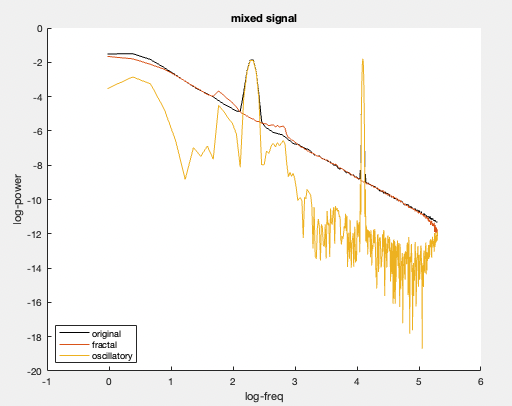
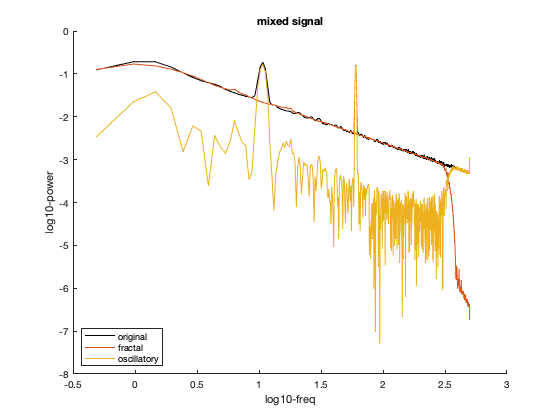
updated example code + figures (#871)

diff --git a/example/spectral/fooof.md b/example/spectral/fooof.md
@@ -11,81 +11,77 @@ FOOOF allows distinguishing rhythmic activity from concurrent power-spectral 1/f
 The following code shows how to extract spectral features from simulated data.
 
 ```matlab
-    % simulate data
-    F = 1; % weight of (F)ractal components of the simulated data
-    O = 1; % weight of (O)scillatory components of the simulated data
-    t = (1:60000)/1000; % time axis
-    for rpt = 1:1
-        % use a simple method to make pink noise that does not rely on the digital signal processing toolbox
-        fn = cumsum(randn(1,length(t)));
-        fn = fn./max(abs(fn));        
-    
-        sgn10 = ft_preproc_bandpassfilter(randn(1,length(t)),1000,[8 12],[],'firws');
-        sgn10 = 0.15.*sgn10./max(abs(sgn10));
-    
-        sgn60 = ft_preproc_bandpassfilter(randn(1,length(t)),1000,[40 80],[],'firws');
-        sgn60 = 0.05.*sgn60./max(abs(sgn60));
-    
-        % add a 10 Hz and 60 Hz oscillation
-        data.trial{1,rpt} = F * fn + O * sgn10 + O * sgn60;
-        data.time{1,rpt}  = t;
-        data.label{1}     = 'chan';
-        data.trialinfo(rpt,1) = rpt;
-    end
+rng(42)
 
-    % chunk into 2-second segments
-    cfg               = [];
-    cfg.length        = 2;
-    cfg.overlap       = 0.5;
-    data              = ft_redefinetrial(cfg, data);
+% set simulation parameters
+A = 1; % scale of 1/f amplitude
+C = 1; % 1/f slope
+O = 1; % weight of oscillatory components of the simulated data
 
-    % compute the fractal and original spectra
-    cfg               = [];
-    cfg.foilim        = [1 200];
-    cfg.pad           = 4;
-    cfg.tapsmofrq     = 2;
-    cfg.method        = 'mtmfft';
-    cfg.output        = 'fooof_aperiodic';
-    fractal = ft_freqanalysis(cfg, data);
-    cfg.output        = 'pow';
-    original = ft_freqanalysis(cfg, data);
+lf = 0; % lower bound of freq
+hf = 500; % higher bound of freq
+sl = 500; % spectral lines
 
-    % subtract the fractal component from the power spectrum
-    cfg               = [];
-    cfg.parameter     = 'powspctrm';
-    cfg.operation     = 'x2-x1';
-    oscillatory = ft_math(cfg, fractal, original);
-    
-    % original implementation by Donoghue et al. 2020 operates through the semilog-power 
-    % (linear frequency, log10-power) space and transformed back into linear-linear space.
-    % thus defining an alternative expression for the oscillatory component as the quotient of 
-    % the power spectrum and the fractal component
-    cfg               = [];
-    cfg.parameter     = 'powspctrm';
-    cfg.operation     = 'x2./x1';  % equivalent to 10^(log10(x2)-log10(x1))
-    oscillatory_alt = ft_math(cfg, fractal, original);
+fs = 1000; % sampling rate
+n = 60000; % time pnts
+t = ((1:n)-1)/fs; % time axis
 
-    % display the spectra on a log-log scale
-    figure();
-    subplot(1,2,1); hold on;
-    plot(log(original.freq), log(original.powspctrm),'k');
-    plot(log(fractal.freq), log(fractal.powspctrm));
-    plot(log(fractal.freq), log(oscillatory.powspctrm));
-    xlabel('log-freq'); ylabel('log-power'); grid on;
-    legend({'original','fractal','oscillatory = spectrum-fractal'},'location','southwest');
-    if F~=0 && O==0
-      title('pure fractal signal');
-    elseif F==0 && O~=0
-      title('pure oscillatory signal');
-    elseif F~=0 && O~=0
-      title('mixed signal');
-    end
-    subplot(1,2,2); hold on;
-    plot(log(original.freq), log(original.powspctrm),'k');
-    plot(log(fractal.freq), log(fractal.powspctrm));
-    plot(log(oscillatory_alt.freq), log(oscillatory_alt.powspctrm));
-    xlabel('log-freq'); ylabel('log-power'); grid on;
-    legend({'original','fractal','oscillatory = spectrum/fractal'},'location','southwest');
-    title('oscillatory = spectrum / fractal');
+% simulate data
+freq = linspace(lf, hf, sl+1); % sampled frequencies for simulated noise
+fn = zeros(size(t));
+for i=2:length(freq) % cumulative sum over freq, but don't include the DC
+  fn = fn + sqrt(A * (1/freq(i)^C)) * cos(2*pi*freq(i)*t + rand*2*pi); % 1/f power = a*(1/f^c)
+end
+
+% add a 10Hz and 60 Hz oscillation
+data.trial{1} = fn + O * cos(2*pi*10.7*t) + O * cos(2*pi*60.3*t);
+data.time{1}  = t;
+data.label{1} = 'chan';
+
+% chunk 2-second segments (gives 1Hz frequency resolution) for long/continous trials
+cfg           = [];
+cfg.length    = 2; % freqency resolution = 1/2^floor(log2(cfg.length*0.9))
+cfg.overlap   = 0.5;
+data          = ft_redefinetrial(cfg, data);
+
+% compute the fractal and original spectra
+tic
+cfg               = [];
+%cfg.taper         = 'hanning';
+cfg.tapsmofrq     = 1;
+cfg.pad           = 5;
+cfg.method        = 'mtmfft';
+cfg.output        = 'fooof_aperiodic';
+fractal = ft_freqanalysis(cfg, data);
+cfg.output        = 'pow';
+original = ft_freqanalysis(cfg, data);
+toc % ~28s
+
+% subtract the fractal component from the power spectrum
+cfg               = [];
+cfg.parameter     = 'powspctrm';
+cfg.operation     = 'x2-x1';
+oscillatory = ft_math(cfg, fractal, original);
+
+% display the spectra in log-log scale
+figure();
+hold on;
+plot(log10(original.freq), log10(original.powspctrm),'k');
+plot(log10(fractal.freq), log10(fractal.powspctrm));
+plot(log10(fractal.freq), log10(oscillatory.powspctrm));
+xlabel('log10-freq'); ylabel('log10-power');
+legend({'original','fractal','oscillatory'},'location','southwest');
+
+p = polyfit(log10((fractal.freq(2:end))),log10((fractal.powspctrm(2:end))),1);
+fprintf('fitted slope = %d\n', p(1));
+fprintf('fitted intercept = %d\n', p(2));
+
+if A~=0 && O==0
+    title('pure fractal signal');
+elseif A==0 && O~=0
+    title('pure oscillatory signal');
+elseif A~=0 && O~=0
+    title('mixed signal');
+end    
 ```
 {% include image src="/assets/img/example/fooof/example_2.png" %}

diff --git a/example/spectral/irasa.md b/example/spectral/irasa.md
@@ -12,36 +12,34 @@ Below we provide two examples, a simulated dataset and a real human ECoG dataset
 ## Extracting spectral features of simulated data
 
 ```
+rng(42)
+
 % set simulation parameters
 A = 1; % scale of 1/f amplitude
 C = 1; % 1/f slope
 O = 1; % weight of oscillatory components of the simulated data
 
-lf = 1; % lower bound of freq
-hf = 300; % higher bound of freq
-sl = 600; % spectral lines
+lf = 0; % lower bound of freq
+hf = 500; % higher bound of freq
+sl = 500; % spectral lines
 
 fs = 1000; % sampling rate
 n = 60000; % time pnts
-t = (1:n)/fs; % time axis
+t = ((1:n)-1)/fs; % time axis
 
 % simulate data
-for rpt = 1:1
-    % simulate fractal component
-    freq = linspace(lf, hf, sl); % sampling frequesies
-    fn = zeros(size(t));
-    for i=1:length(freq) % cummulative sum over freq
-        fn = fn + (A * 1/freq(i)^C) * cos(2*pi*freq(i)*t + rand*2*pi); % 1/f amplitude = a*(1/f^c)
-    end
-
-    % simulate a 10Hz and 60 Hz oscillatory component
-    data.trial{1,rpt} = fn + O * cos(2*pi*10*t) + O * cos(2*pi*60*t);
-    data.time{1,rpt}  = t;
-    data.label{1}     = 'chan';
-    data.trialinfo(rpt,1) = rpt;
+freq = linspace(lf, hf, sl+1); % sampled frequencies for simulated noise
+fn = zeros(size(t));
+for i=2:length(freq) % cumulative sum over freq, but don't include the DC
+  fn = fn + sqrt(A * (1/freq(i)^C)) * cos(2*pi*freq(i)*t + rand*2*pi); % 1/f power = a*(1/f^c)
 end
 
-% chunk 2-second segments (gives 1Hz frequency resolution) for long/continuous trials
+% add a 10Hz and 60 Hz oscillation
+data.trial{1} = fn + O * cos(2*pi*10.7*t) + O * cos(2*pi*60.3*t);
+data.time{1}  = t;
+data.label{1} = 'chan';
+
+% chunk 2-second segments (gives 1Hz frequency resolution) for long/continous trials
 cfg           = [];
 cfg.length    = 2; % freqency resolution = 1/2^floor(log2(cfg.length*0.9))
 cfg.overlap   = 0.5;
@@ -50,8 +48,6 @@ data          = ft_redefinetrial(cfg, data);
 % compute the fractal and original spectra
 tic
 cfg               = [];
-cfg.foilim        = [1 200];
-cfg.pad           = 'nextpow2';
 cfg.method        = 'irasa';
 cfg.output        = 'fractal';
 fractal = ft_freqanalysis(cfg, data);
@@ -68,11 +64,16 @@ oscillatory = ft_math(cfg, fractal, original);
 % display the spectra in log-log scale
 figure();
 hold on;
-plot(log(original.freq), log(original.powspctrm),'k');
-plot(log(fractal.freq), log(fractal.powspctrm));
-plot(log(fractal.freq), log(oscillatory.powspctrm));
-xlabel('log-freq'); ylabel('log-power');
+plot(log10(original.freq), log10(original.powspctrm),'k');
+plot(log10(fractal.freq), log10(fractal.powspctrm));
+plot(log10(fractal.freq), log10(oscillatory.powspctrm));
+xlabel('log10-freq'); ylabel('log10-power');
 legend({'original','fractal','oscillatory'},'location','southwest');
+
+fend = nearest(fractal.freq, 250); % avoid getting too close to Nyquist
+p = polyfit(log10((fractal.freq(2:fend))),log10((fractal.powspctrm(2:fend))),1);
+fprintf('fitted slope = %d\n', p(1));
+fprintf('fitted intercept = %d\n', p(2));
 
 if A~=0 && O==0
     title('pure fractal signal');
